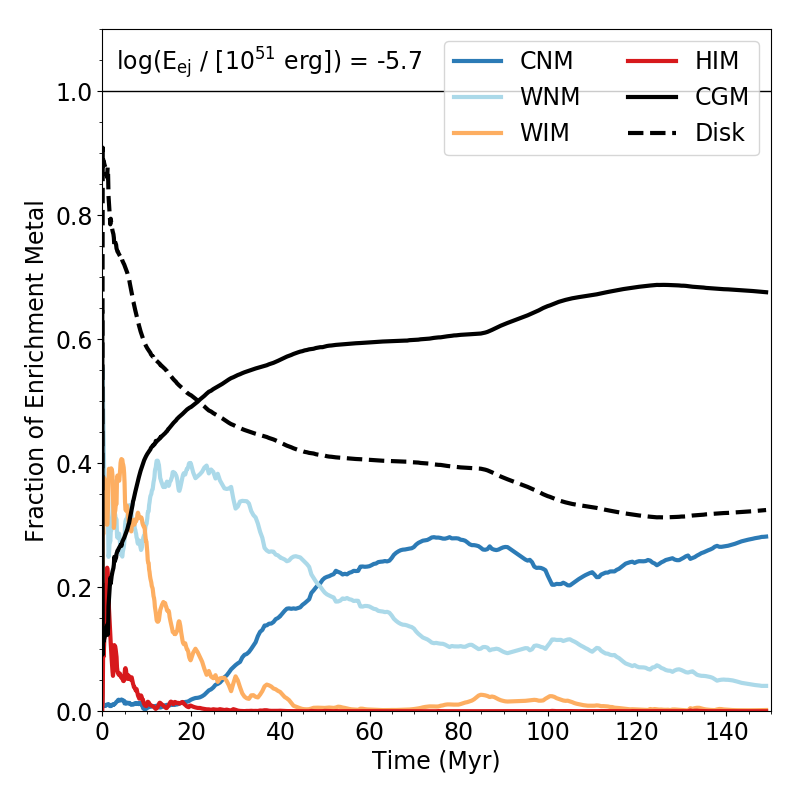
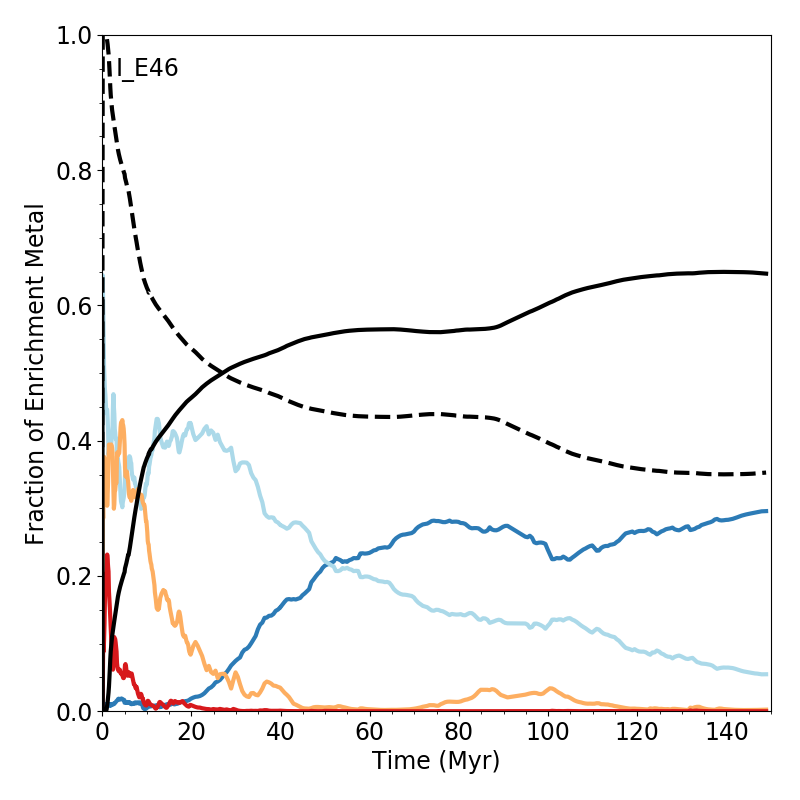
Finishing conclusion draft and updating Ch4 figures

diff --git a/thesis/chapters/ch_conclusion.tex b/thesis/chapters/ch_conclusion.tex
@@ -3,38 +3,44 @@
 
 %Summarize key results
 
-This \dissertation has focused on building an understanding of galactic chemical evolution from the assumption that the same feedback processes that regulate star formation and drive galactic winds in galaxies also play a fundamental role in their metal enrichment. It is understood that stellar feedback plays an important role in driving metals out into the CGM and beyond in galaxies, but the exact coupling of metals to galactic winds is not well understood. This is in part because how metals mix within a multi-phase ISM to eventually be swept up in galactic outflows or mix within cold, star forming gas is not well constrained. Even more, how metals from the full range of nucleosynthetic sources, including AGB winds, stellar winds, core collapse and Type Ia supernovae, and NS-NS mergers, participate in these processes -- mixing and galactic winds -- differently has only recently been examined in efforts to better understand results from the ever increasing availability of high-quality stellar abundance measurements of stars in our own Milky Way and in nearby dwarf galaxies. In order to understand these processes and build a complete picture of metal evolution in the Universe, we have developed a new model for star formation, stellar feedback, and chemical enrichment to follow these processes in simulations of isolated dwarf galaxies. Using this model, we have made critical advancements in understanding both how stellar feedback governs the evolution of low mass dwarf galaxies and how individual metals are distributed in (and beyond) these galaxies over time. We summarize these results below, and conclude with a discussion of future research.
+This \dissertation has focused on building an understanding of galactic chemical evolution from the assumption that the same feedback processes that regulate star formation and drive galactic winds in galaxies also play a fundamental role in their metal enrichment. It is understood that stellar feedback plays an important role in driving metals out into the CGM and beyond in galaxies, but the exact coupling of metals to galactic winds is not well understood. This is in part because how metals mix within a multi-phase ISM to eventually be swept up in galactic outflows or mix within cold, star forming gas is not well constrained. Even more, how metals from the full range of nucleosynthetic sources, including AGB winds, stellar winds, core collapse and Type Ia supernovae, and NS-NS mergers, participate in these processes -- mixing and galactic winds -- differently has only recently been examined in efforts to better understand results from the ever increasing availability of high-quality stellar abundance measurements of stars in our own Milky Way and in nearby dwarf galaxies. In order to build a complete picture of metal evolution in the Universe, we have developed a new model for star formation, stellar feedback, and chemical enrichment to follow these processes in simulations of isolated dwarf galaxies. Using this model, we have made critical advancements in understanding both how stellar feedback governs the evolution of low mass dwarf galaxies and how individual metals are distributed in (and beyond) these galaxies over time. We summarize these results below, and conclude with a discussion of future research.
 
 
 \section{A New Model for Galactic Chemical Enrichment}
+\label{conclusion:sec:ch1}
 
-In order to address these outstanding issues in galactic evolution, we developed a new model for galactic chemical evolution that -- for the first time in galaxy-scale simulations -- follows star particles as individual stars along with their detailed feedback and metal yields. As detailed in Chapter~\ref{ch:chapter_2} we use the AMR hydrodynamics code \textsc{Enzo}, we produce a set of simulations using this model of an idealized, isolated low-mass dwarf galaxy ($M_{\rm gas} \sim 10^{6}$~M$_{\odot}$, $M_{\rm halo} \sim 3 \times 10^{9}$~M$_{\odot}$) embedded in a static dark matter potential. Using a detailed model for gas chemistry and radiative cooling, we follow the evolution of this galaxy and its multi-phase ISM as it forms stars, depositing individual star particles sampled over 1 to 100 M$_{\odot}$. We follow the feedback processes from each of these stars, including the AGB winds from low mass stars, Lyman-Werner radiation, FUV radiation (and photoelectric heating), and ionizing radiation from massive stars, and both core collapse and Type Ia supernovae. We track the metal yields for each of these stars, following 15 individual metal species as they mix within the ISM and imprint their abundances onto the sites of future star formation or are ejected from the galaxy altogether.
+In order to address these outstanding issues in galactic evolution, we developed a new model for galactic chemical evolution that -- for the first time in galaxy-scale simulations -- follows star particles as individual stars along with their detailed feedback and metal yields. As detailed in Chapter~\ref{ch:chapter2} we use the AMR hydrodynamics code \textsc{Enzo}, we produce a set of simulations using this model of an idealized, isolated low-mass dwarf galaxy ($M_{\rm gas} \sim 10^{6}$~M$_{\odot}$, $M_{\rm halo} \sim 3 \times 10^{9}$~M$_{\odot}$) embedded in a static dark matter potential. Using a detailed model for gas chemistry and radiative cooling, we follow the evolution of this galaxy and its multi-phase ISM as it forms stars, depositing individual star particles sampled over 1 to 100 M$_{\odot}$. We follow the feedback processes from each of these stars, including the AGB winds from low mass stars, Lyman-Werner radiation, FUV radiation (and photoelectric heating), and ionizing radiation from massive stars, and both core collapse and Type Ia supernovae. We track the metal yields for each of these stars, following 15 individual metal species as they mix within the ISM and imprint their abundances onto the sites of future star formation or are ejected from the galaxy altogether.
 
-\textbf{summarize results from Ch 1 here}
+We find that this model -- which contains no independently tuned free parameters -- is sufficient to generate a multi-phase ISM with star formation, gas scale-height, and outflow properties that match expectations from observations. The global metal retention fraction for this galaxy is low ($\lesssim$ 5\%), with typical outflow velocities of $\sim$100~km~s$^{-1}$, and up to 1000~km~s$^{-1}$. We find that stellar radiation feedback is important, but that the ISRF is highly variable -- driven by stochastic IMF sampling in this low SFR galaxy. The mass fraction of the ISM is dominated by the cold (T$\sim$100~K) and warm-neutral (T$\sim$1000~K) components, while the warm-ionized and hot phases dominated the volume fraction. The WIM and HIM in the galaxy also exhibit significant time variation due to stochastic IMF sampling and a bursty SFH. Finally, we find that H$_2$ comprises $\lesssim$~5\% of the galaxy by mass, formed primarily through H$-$ gas-phase reactions.
 
-In ongoing work we are extending these methods by implementing them in cosmological simulations of UFD galaxy evolution. Our detailed model tracking the feedback and yields from individual stars will build substantially upon recent works investigating metal enrichment at high redshift and in UFDs and their progenitors \citep[e.g.][]{Ritter2015,Jeon2017,Corlies2018}. This work includes additional improvements to the simulations presented in this \dissertation, including a model for Pop III star formation and chemical enrichment adapted from \cite{Wise2012a}, a new IMF sampling scheme that allows us to follow very low mass stars ($M_* \lesssim 2$~M$_{\odot}$) -- which have no significant feedback or metal enrichment, but are important long-lived tracers of galactic chemical enrichment -- aggregated together into a single particle during each star formation event, and improvements to the numerical implementation to ease memory consumption in these significantly larger simulations.
+In ongoing work we are extending these methods by implementing them in cosmological simulations of UFD galaxy evolution. Our detailed model tracking the feedback and yields from individual stars will build substantially upon recent works investigating metal enrichment at high redshift and in UFDs and their progenitors \citep[e.g.][]{Ritter2015,Jeon2017,Corlies2018,Wheeler2018,Agertz2019}. This work includes additional improvements to the simulations presented in this \dissertation, including a model for Pop III star formation and chemical enrichment adapted from \cite{Wise2012a}, a new IMF sampling scheme that allows us to follow very low mass stars ($M_* \lesssim 2$~M$_{\odot}$) -- which have no significant feedback or metal enrichment, but are important long-lived tracers of galactic chemical enrichment -- aggregated together into a single particle during each star formation event, improvements to the numerical implementation to ease memory consumption in these significantly larger simulations, and new metal tracer fields to follow the contribution of AGB, core collapse SNe, Type Ia SNe, and PopIII stars to the total metal content of each cell independently.
 
-Finally, as part of this \dissertation we additionally produced a significant set of companion simulations at lower resolution (3.6~pc instead of 1.8~pc) turning on and off each independent feedback process (ionizing radiation, radiation pressure, LW and FUV radiation, and supernovae). With these runs, we sought to build upon recent works examining the various effects of each stellar feedback process in driving the evolution of low mass dwarf galaxies \citep{Hu2016,Hu2017,Hu2018,Forbes2016}. In future work we will examine these completed runs in more detail to better understand the complex, interconnected role multi-channel stellar feedback plays in galactic evolution. With our simulations, we can place greater emphasis on how each feedback channel drives the mixing and ejection of individual metals within and beyond low mass dwarf galaxies.
-% Until recently, most (if not all) simulations of galaxy formation and evolution followed metal enrichment with a single, global metallicity field, ignoring the potential differential evolution across individual metals. Models for star formation and stellar feedback have also -- until recently -- made extensive use of phenomenological prescriptions to capture their effects on galactic evolution. With the increase in computational power
+Finally, as part of this \dissertation we additionally produced a significant set of companion simulations at $2 \times$ lower resolution (3.6~pc instead of 1.8~pc) turning on and off each independent feedback process (ionizing radiation, radiation pressure, LW and FUV radiation, and supernovae). With these runs, we sought to build upon recent works examining the various effects of each stellar feedback process in driving the evolution of low mass dwarf galaxies \citep{Hu2016,Hu2017,Hu2018,Forbes2016}. In future work we will examine these completed runs in more detail to better understand the complex, interconnected role multi-channel stellar feedback plays in galactic evolution. With our simulations, we can place greater emphasis on how each feedback channel drives the mixing and ejection of individual metals within and beyond low mass dwarf galaxies.
 
 \section{Stellar Radiation Feedback in Dwarf Galaxies}
+\label{conclusion:sec:ch2}
 
-Stellar radiation has recently been invoked as an important source of feedback -- in addition to supernovae -- that helps to regulate star formation and drive galactic winds in galaxies across the mass scale. This feedback channel acts immediately after the formation of massive stars and is thus an important source of pre-SN feedback. In addition to destroying cold gas in star forming regions, this acts to dramatically reduce the typical ISM densities in which SNe explode, increasing their impact. While often invoked as a source of feedback, modeling stellar radiation in galaxies in detail can be computationally expensive, with a variety of approximate methods available to reduce this expense. In our simulations we track the ionizing radiation from massive stars accurately using an adaptive ray-tracing radiative transfer method with sufficient resolution to capture the HII regions from individual stars. In Chapter~\ref{ch:chapter_2} we demonstrate that stellar ionizing radiation dramatically reduces the star formation rate and generally increases the effectiveness of galactic winds at our low-mass dwarf galaxy simulations.
+Stellar radiation has recently been invoked as an important source of feedback -- in addition to supernovae -- that helps to regulate star formation and drive galactic winds in galaxies across the mass scale. This feedback channel acts immediately after the formation of massive stars and is thus an important source of pre-SN feedback. In addition to destroying cold gas in star forming regions, this acts to dramatically reduce the typical ISM densities in which SNe explode, increasing their impact. While often invoked as a source of feedback, modeling stellar radiation in galaxies in detail can be computationally expensive, with a variety of approximate methods available to reduce this expense. In our simulations we track the ionizing radiation from massive stars accurately using an adaptive ray-tracing radiative transfer method with sufficient resolution to capture the HII regions from individual stars. In Chapter~\ref{ch:chapter2} we demonstrate that stellar ionizing radiation dramatically reduces the star formation rate and generally increases the effectiveness of galactic winds at our low-mass dwarf galaxy simulations.
 
-In addition, we explore the mechanism by which stellar radiation acts to regulate star formation and drive outflows by comparing our fiducial simulations to simulations that only account for localized ($< 20$~pc) ionization around massive stars. This second set of runs approximates the behavior of various approximations for stellar radiation feedback which do not follow radiation propagation in detail, but rather deposit energy / ionize gas in the immediate vicinity of newly formed stars. We find that star formation is regulated by ionizing radiation locally -- destroying cold gas around young, massive stars that would otherwise have formed stars -- as the $< 20$~pc restricted run (initially) shares a very similar SFR to our fiducial run. However, we find that these simulations exhibit dramatically different outflow properties, which drive long-term differences in galactic properties including SFR and metal retention. Stellar radiation at larger distance scales is important for carving out diffuse channels of gas in the ISM and into the CGM of our dwarf galaxy through which SNe can effectively blow out mass and metals from the ISM. This suggests that -- at least in low mass dwarf galaxies -- localized approximations of radiation feedback are likely insufficient to capturing the full effects of stellar radiation.
+In addition, we explore the mechanism by which stellar radiation acts to regulate star formation and drive outflows by comparing our fiducial simulations to simulations that only account for localized ($< 20$~pc) ionization around massive stars. This second set of runs mimics the behavior of various approximations for stellar radiation feedback which do not follow radiation propagation in detail, but rather deposit energy / ionize gas in the immediate vicinity of newly formed stars. We find that star formation is regulated by ionizing radiation locally -- destroying cold gas around young, massive stars that would otherwise have formed stars -- as the $< 20$~pc restricted run (initially) shares a very similar SFR to our fiducial run. However, we find that these simulations exhibit dramatically different outflow properties, which drive long-term differences in galactic properties including SFR and metal retention. Stellar radiation at larger distance scales is important for carving out diffuse channels of gas in the ISM and into the CGM of our dwarf galaxy through which SNe can effectively blow out mass and metals from the ISM. This suggests that -- at least in low mass dwarf galaxies -- localized approximations of radiation feedback are likely insufficient to capturing the full effects of stellar radiation.
 
-\textbf{Maybe mention radiation comparison runs that will be examined in the future?}.
-
+%sAlthough we include the effects of photoelectric heating, Lyman-Werner radiation, and radiation pressure, we have not investigated their individual importance in this work. Recent works have demonstrated the importance of photoelectric heating in dwarf galaxies \citep{Hu2016,Forbes2016},
 
 \section{Mixing and Ejection of Individual Metals}
+\label{conclusion:sec:ch3}
 
-\textbf{Summarize results}
+As argued in \cite{KrumholzTing2018}, differences in how metals are released into the ISM (due to the variation in energetics between their nucleosynthetic sites) should drive discernible differences in their mixing behavior in the ISM. We demonstrate these differences for the first time in hydrodynamics simulations in Chapter~\ref{ch:chapter3} by examining the evolution of each of the 15 metals species tracked in our simulations. Although we are not the first to follow a large number of individual metal species from different nucleosynthetic channels in a galaxy-scale simulation, that we follow individual stars and follow the feedback for each independently has allowed us to capture these effects. Notably, we find that -- for low mass dwarf galaxies -- metals released in AGB winds are retained in the galaxy's ISM at a much higher fraction than metals released in either core collapse or Type Ia supernovae. This implies that if one were to construct a chemical evolution model of a low mass dwarf galaxy and adopt the high metal ejection fractions as seen in observations\footnote{Which typically trace O, an element released predominately in core collapse supernovae.} \citep{Kirby2011-metals,McQuinn2015}, one could \textit{underestimate} the mass of AGB-wind dominated metals (such as Sr and Ba, and possibly C and N) in the ISM by a factor of $\sim$ 4-5. This effect is important in matching observations of stellar abundances in low mass dwarf galaxies, but how this ratio depends on galaxy properties (e.g. $M_*$, $M_{\rm halo}$, $\Sigma_{\rm SFR}$, $\Sigma_{\rm gas}$) is uncertain and warrants future research.
+
+In agreement with predictions from \cite{KrumholzTing2018}, we find that the abundances of the AGB-wind metals are more inhomogeneous than the abundances of metals from supernovae. This spread can be significant, over 1~dex for the AGB-wind elements. We predict then that -- at least in the low metallicity environments of low mass dwarf galaxies -- the observed stellar abundance distributions for AGB-wind elements should be characterized by markedly greater spreads than abundance distributions for SNe elements (e.g. O, Mg). Indeed, this is observed in the stellar abundance patters of dwarf galaxies in the Local Group \citep{Suda2017}, but it remains to be seen if this is a conclusive signature of these mixing differences or perhaps is due to larger differences in star-to-star metal yields for these elements. Finally, we were able to characterize the metal mass fraction PDFs for each element across each phase of the ISM, and found that each were generically well-fit by a combined log-normal PDF with a power-law tail towards higher metal mass fractions. We hope that this characterization lends itself well to developing a physically-motivated semi-analytic prescription for stellar abundance spreads to be used in semi-analytic (and one-zone) models of galactic chemical evolution.
 
 \section{Mixing Behavior of Single-Sources}
+\label{conclusion:sec:ch4}
 
-\textbf{very briefly sSummarize results}
-
+To expand upon the results of Chapter~\ref{ch:chapter3} and understand how metals are distributed throughout the ISM on a source-by-source level, we carry out a series of ``mixing experiments'' in Chapter~\ref{ch:chapter4} to test how metal mixing and metal ejection behaviors vary with the injection energy of the source. We confirm that lower energy events (e.g. AGB-winds) are retained at a higher fraction in the ISM and mix poorly compared to higher energy events (e.g. SNe) \textit{on average}. We demonstrate this by following the evolution of metals of individual sources at injection energies of 10$^{46}$~erg (AGB winds), 10$^{49}$~erg and 10$^{50}$~erg (NS-NS mergers), 10$^{51}$~erg (SNe and possibly NS-NS mergers), and 10$^{52}$~erg (hypernovae). However, we find that the behavior of any single source exhibits a substantial amount of variance -- particularly at lower energies -- as it is clear that the injection energy is not the only dominant factor in determining mixing behavior. We investigate other possible factors, including radial position, global galaxy SFR, and local ISM density, and find that the global galaxy SFR has the greatest effect on the mixing and ejection behavior of each metal, particularly for lower energy events. Whiles these results suggest that these behavioral differences can be accounted for in an average sense, the full picture is subject to substantial stochasticity based purely on the randomness with which when and where different events occur in a galaxy. Abundances associated with rare enrichment sources -- such as the r-process enrichment candidates -- which may only occur once (if at all) in the lowest mass dwarf galaxies should therefore exhibit the most significant galaxy-to-galaxy abundance variations for galaxies at fixed stellar mass.
 
 \section{Future Work}
+\label{conclusion:sec:future}
 
-\textbf{Cosmological simulations may already be mentioned above....} if so, just focus on how I implemented stuff into a onezone model to match the simualtiosn and play around iwth the effects of f$_{ej}$ and mixing timescales. say we will explore how this works and implement in larger onezone / semi-analytic models (cote). 
+One of the primary goals of this \dissertation was to develop a physical understanding of the processes that contribute generally to galactic chemical evolution and specifically to metal mixing and ejection from galaxies -- a process that was previously not well understood. With a novel model for star formation and stellar feedback we have made substantial contributions to this understanding, but continued work is necessary. Specifically, the conclusions reached in this \dissertation have all been made in the context of the evolution of a low-mass dwarf galaxy with idealized initial conditions and limited cosmological context. Although we can speculate, it remains to be seen how these results can vary over cosmological timescales for a single galaxy as well as how they vary across the galaxy mass scale. Besides conducting a suite of simulations sampling a variety of galaxy parameters, which could prove too computationally expensive at higher galaxy masses, semi-analytic and one-zone models provide the ideal testing ground for identifying what regimes may be sensitive to the metal mixing behaviors identified in this work. The ultimate goal would be to use a suite of hydrodynamics simulations to construct physically motivated prescriptions for use in these one-zone models. Until then, however, future work can make significant strides with the results presented here alone.
+
+To aid in this development, we have built a one-zone model, \textsc{OneZ}, that has been designed to match the physical model used in our hydrodynamics simulations.\footnote{https://github.com/aemerick/OneZ}. This model uses an equivalent star formation recipe as our hydrodynamics simulations, stochastically forming individual star particles and following their yields. Given an input SFH and $f_{\rm ej}$ for each metal from our hydrodynamics simulations, we can match the mean metal abundance evolution from these simulations and can explore how varying $f_{\rm ej}$ (element-by-element) affects the resultant stellar abundance patterns. In future work, we plan to implement a two-phase model like that in \cite{SchonrichWeinberg2019} that includes parameters for how each metal first enters the hot and cold phases, how each metal mixes between the two phases, and a stochastic mixing-zone method as used in \cite{Cescutti2008}. With these additions, we will: 1) explore how these physics manifest themselves in galaxies with a wide range of star formation and halo properties, 2) use these insights to begin to match observed stellar abundance patterns mass dwarf galaxies, 3) make predictions for expected multi-element abundances spreads in dwarf galaxies for comparison to future observations in upcoming surveys, and 4) better constrain the relative importance of stochastic sampling of the IMF and inhomogeneous mixing in setting these abundance spreads. In addition, we can more easily use this model to explore a wide variety of nucleosynthetic yield tables to better constrain the -- highly uncertain -- yields themselves. This is a particularly exciting tool that can be used to better constrain the sources of r-process enrichment in low mass dwarf galaxies.
